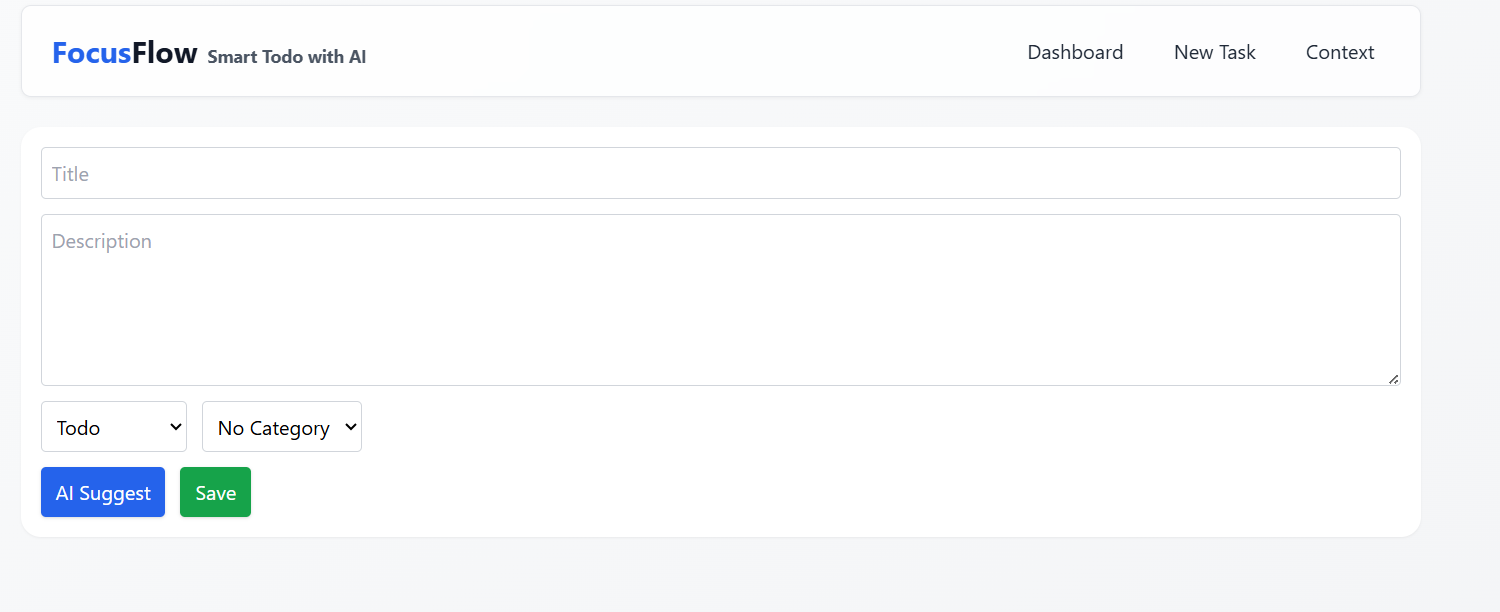
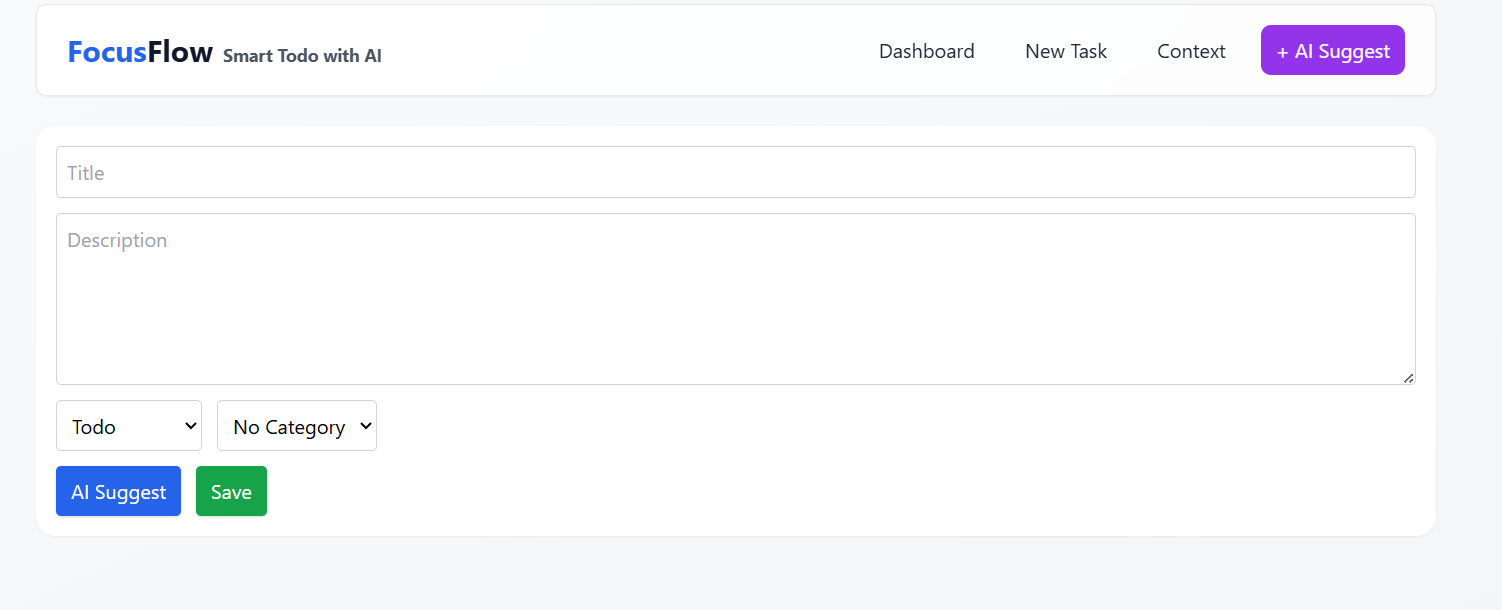
Final Commit

diff --git a/frontend/app/page.js b/frontend/app/page.js
@@ -48,6 +48,7 @@ export default function Dashboard() {
   const [filters, set] = useState({ status: "", category: "" });
   const [showModal, setShowModal] = useState(false);
   const [newTask, setNewTask] = useState({ title: "", description: "" });
+  const [loadingAI, setLoadingAI] = useState(false);
 
   const qs = new URLSearchParams(
     Object.entries(filters).filter(([, v]) => v)
@@ -70,6 +71,37 @@ export default function Dashboard() {
     setShowModal(false);
     setNewTask({ title: "", description: "" });
     mutate();
+  };
+
+  const deleteTask = async (id) => {
+    if (!confirm("Are you sure you want to delete this task?")) return;
+    await fetch(`${API}/api/tasks/${id}/`, { method: "DELETE" });
+    mutate();
+  };
+
+  const runAISuggest = async () => {
+    if (!newTask.title && !newTask.description) return;
+    setLoadingAI(true);
+    const payload = { task: newTask, contexts: [], current_load: 3 };
+    try {
+      const res = await fetch(`${API}/api/ai/suggest/`, {
+        method: "POST",
+        headers: { "Content-Type": "application/json" },
+        body: JSON.stringify(payload),
+      });
+      const data = await res.json();
+      setNewTask((t) => ({
+        ...t,
+        description: data.enhanced_description || t.description,
+        priority_score: data.priority_score,
+        deadline: data.deadline_suggestion,
+        tags: data.suggested_tags,
+      }));
+    } catch (err) {
+      console.error("AI Suggest error", err);
+    } finally {
+      setLoadingAI(false);
+    }
   };
 
   return (
@@ -153,13 +185,19 @@ export default function Dashboard() {
               )}
             </div>
 
-            <div className="mt-4">
+            <div className="mt-4 flex justify-between items-center">
               <Link
                 href={`/task/${t.id}`}
                 className="text-blue-600 hover:underline text-sm font-medium"
               >
                 View Details →
               </Link>
+              <button
+                onClick={() => deleteTask(t.id)}
+                className="text-red-600 text-sm hover:underline"
+              >
+                Delete
+              </button>
             </div>
           </div>
         ))}
@@ -188,6 +226,13 @@ export default function Dashboard() {
               className="w-full p-2 border rounded mb-4 focus:ring-2 focus:ring-blue-400"
             />
             <div className="flex justify-end gap-3">
+              <button
+                onClick={runAISuggest}
+                disabled={loadingAI}
+                className="px-4 py-2 bg-purple-600 hover:bg-purple-700 text-white rounded-lg disabled:opacity-50"
+              >
+                {loadingAI ? "Suggesting..." : "AI Suggest"}
+              </button>
               <button
                 onClick={() => setShowModal(false)}
                 className="px-4 py-2 bg-gray-300 hover:bg-gray-400 rounded-lg"

diff --git a/frontend/app/context/page.js b/frontend/app/context/page.js
@@ -6,6 +6,8 @@ const API = process.env.NEXT_PUBLIC_API_BASE || "http://localhost:8000";
 export default function ContextPage() {
   const [items, setItems] = useState([]);
   const [form, setForm] = useState({ content: "", source: "notes" });
+  const [loadingId, setLoadingId] = useState(null);
+  const [deletingId, setDeletingId] = useState(null);
 
   const load = () =>
     fetch(`${API}/api/contexts/`)
@@ -25,6 +27,40 @@ export default function ContextPage() {
     });
     setForm({ content: "", source: "notes" });
     load();
+  };
+
+  const runAISuggest = async (ctx) => {
+    setLoadingId(ctx.id);
+    try {
+      const res = await fetch(`${API}/api/ai/context-suggest/`, {
+        method: "POST",
+        headers: { "Content-Type": "application/json" },
+        body: JSON.stringify({ content: ctx.content, source: ctx.source }),
+      });
+      const data = await res.json();
+      if (data.suggestion) {
+        alert(`AI Suggestion:\n\n${data.suggestion}`);
+      } else {
+        alert("No suggestion found.");
+      }
+    } catch (err) {
+      alert("Error fetching AI suggestion: " + err.message);
+    } finally {
+      setLoadingId(null);
+    }
+  };
+
+  const deleteContext = async (ctx) => {
+    if (!confirm("Are you sure you want to delete this context?")) return;
+    setDeletingId(ctx.id);
+    try {
+      await fetch(`${API}/api/contexts/${ctx.id}/`, { method: "DELETE" });
+      setItems(items.filter((item) => item.id !== ctx.id));
+    } catch (err) {
+      alert("Error deleting context: " + err.message);
+    } finally {
+      setDeletingId(null);
+    }
   };
 
   return (
@@ -71,6 +107,24 @@ export default function ContextPage() {
             <div className="mt-2">{c.content}</div>
             <div className="mt-1 text-xs text-gray-600">
               {new Date(c.created_at).toLocaleString()}
+            </div>
+
+            <div className="flex gap-2 mt-3">
+              <button
+                className="px-3 py-1 bg-purple-600 text-white text-xs rounded hover:bg-purple-700 disabled:opacity-50"
+                onClick={() => runAISuggest(c)}
+                disabled={loadingId === c.id}
+              >
+                {loadingId === c.id ? "Thinking..." : "AI Suggest"}
+              </button>
+
+              <button
+                className="px-3 py-1 bg-red-600 text-white text-xs rounded hover:bg-red-700 disabled:opacity-50"
+                onClick={() => deleteContext(c)}
+                disabled={deletingId === c.id}
+              >
+                {deletingId === c.id ? "Deleting..." : "Delete"}
+              </button>
             </div>
           </div>
         ))}

diff --git a/frontend/app/layout.js b/frontend/app/layout.js
@@ -39,6 +39,13 @@ export default function RootLayout({ children }) {
               >
                 Context
               </a>
+              {/* AI Suggest Shortcut */}
+              <a
+                href="/task/new?ai=true"
+                className="px-3 py-2 rounded-lg bg-purple-600 text-white hover:bg-purple-700 transition"
+              >
+                + AI Suggest
+              </a>
             </nav>
           </header>
 

diff --git a/backend/tasks/views.py b/backend/tasks/views.py
@@ -6,19 +6,23 @@ from .serializers import TaskSerializer, CategorySerializer, ContextEntrySeriali
 from .filters import TaskFilterBackend
 from .ai_engine import pipeline
 
+
 class CategoryViewSet(viewsets.ModelViewSet):
     queryset = Category.objects.all().order_by("name")
     serializer_class = CategorySerializer
     http_method_names = ["get"]
+
 
 class TaskViewSet(viewsets.ModelViewSet):
     queryset = Task.objects.all().order_by("-created_at")
     serializer_class = TaskSerializer
     filter_backends = [TaskFilterBackend]
 
+
 class ContextEntryViewSet(viewsets.ModelViewSet):
     queryset = ContextEntry.objects.all().order_by("-created_at")
     serializer_class = ContextEntrySerializer
+
 
 class AISuggestView(APIView):
     """
@@ -39,3 +43,25 @@ class AISuggestView(APIView):
             current_load=data.get("current_load"),
         )
         return Response(out, status=status.HTTP_200_OK)
+
+
+class ContextAISuggestView(APIView):
+    """
+    POST payload example:
+    {
+      "content": "Meeting with client postponed to Friday.",
+      "source": "email"
+    }
+    """
+    def post(self, request):
+        content = request.data.get("content")
+        source = request.data.get("source", "context")
+
+        if not content:
+            return Response({"error": "Content is required"}, status=status.HTTP_400_BAD_REQUEST)
+
+        try:
+            suggestion = pipeline.generate_context_suggestion(content=content, source=source)
+            return Response({"suggestion": suggestion}, status=status.HTTP_200_OK)
+        except Exception as e:
+            return Response({"error": str(e)}, status=status.HTTP_500_INTERNAL_SERVER_ERROR)

diff --git a/backend/smarttodo/urls.py b/backend/smarttodo/urls.py
@@ -1,7 +1,7 @@
 from django.contrib import admin
 from django.urls import path, include
 from rest_framework.routers import DefaultRouter
-from tasks.views import TaskViewSet, CategoryViewSet, ContextEntryViewSet, AISuggestView
+from tasks.views import TaskViewSet, CategoryViewSet, ContextEntryViewSet, AISuggestView, ContextAISuggestView
 from drf_spectacular.views import SpectacularAPIView, SpectacularSwaggerView, SpectacularRedocView
 
 router = DefaultRouter()
@@ -12,7 +12,12 @@ router.register(r"contexts", ContextEntryViewSet, basename="context")
 urlpatterns = [
     path("admin/", admin.site.urls),
     path("api/", include(router.urls)),
+
+    # AI Endpoints
     path("api/ai/suggest/", AISuggestView.as_view(), name="ai-suggest"),
+    path("api/ai/context-suggest/", ContextAISuggestView.as_view(), name="ai-context-suggest"),
+
+    # API Docs
     path("api/schema/", SpectacularAPIView.as_view(), name="schema"),
     path("api/schema/swagger/", SpectacularSwaggerView.as_view(url_name="schema"), name="swagger-ui"),
     path("api/schema/redoc/", SpectacularRedocView.as_view(url_name="schema"), name="redoc"),

diff --git a/backend/tasks/ai_engine/pipeline.py b/backend/tasks/ai_engine/pipeline.py
@@ -93,3 +93,16 @@ def generate_suggestions(task: dict, contexts: list[dict], user_preferences: dic
         "enhanced_description": enhanced,
         "context_insights": ctx_insights,
     }
+def generate_context_suggestion(content: str, source: str = "context") -> str:
+    """
+    Generate a short actionable suggestion based on a single context entry.
+    """
+    llm = LLMClient()
+    prompt = (
+        f"Source: {source}\n"
+        f"Context: {content}\n\n"
+        "Give one short, clear, actionable suggestion based on this context. "
+        "If no action is needed, say 'No action required'."
+    )
+    ai = llm.complete(prompt)
+    return ai.strip() if ai else "No suggestion available."
